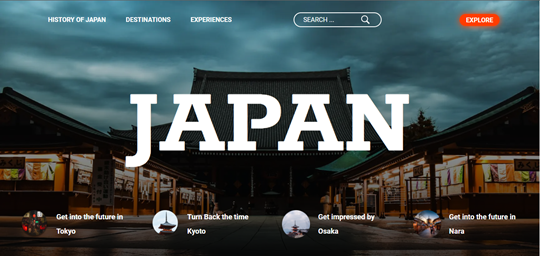
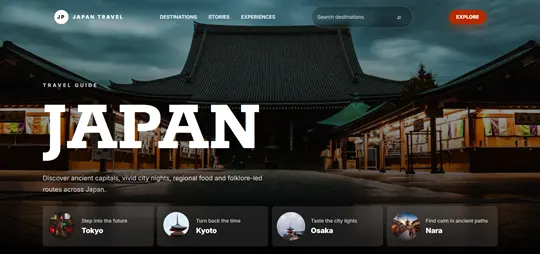
Update project link and technologies in constants

diff --git a/src/contstants/constants.js b/src/contstants/constants.js
@@ -84,10 +84,10 @@ export const projects = [
       src: "./images/japon.webp",
       alt: "japon",
     },
-    link: "https://bryanquin3.github.io/Tourism-Website-Japan/",
+    link: "https://tourismjapantravel.netlify.app/",
     bgColor: "bg-indigo-500",
     textColor: "text-white",
-    tecnologies: ["Sass", "Vanilla JS", "HTML"],
+    tecnologies: ["Tailwind", "Astro", "GSAP"],
   },
 ];
 
